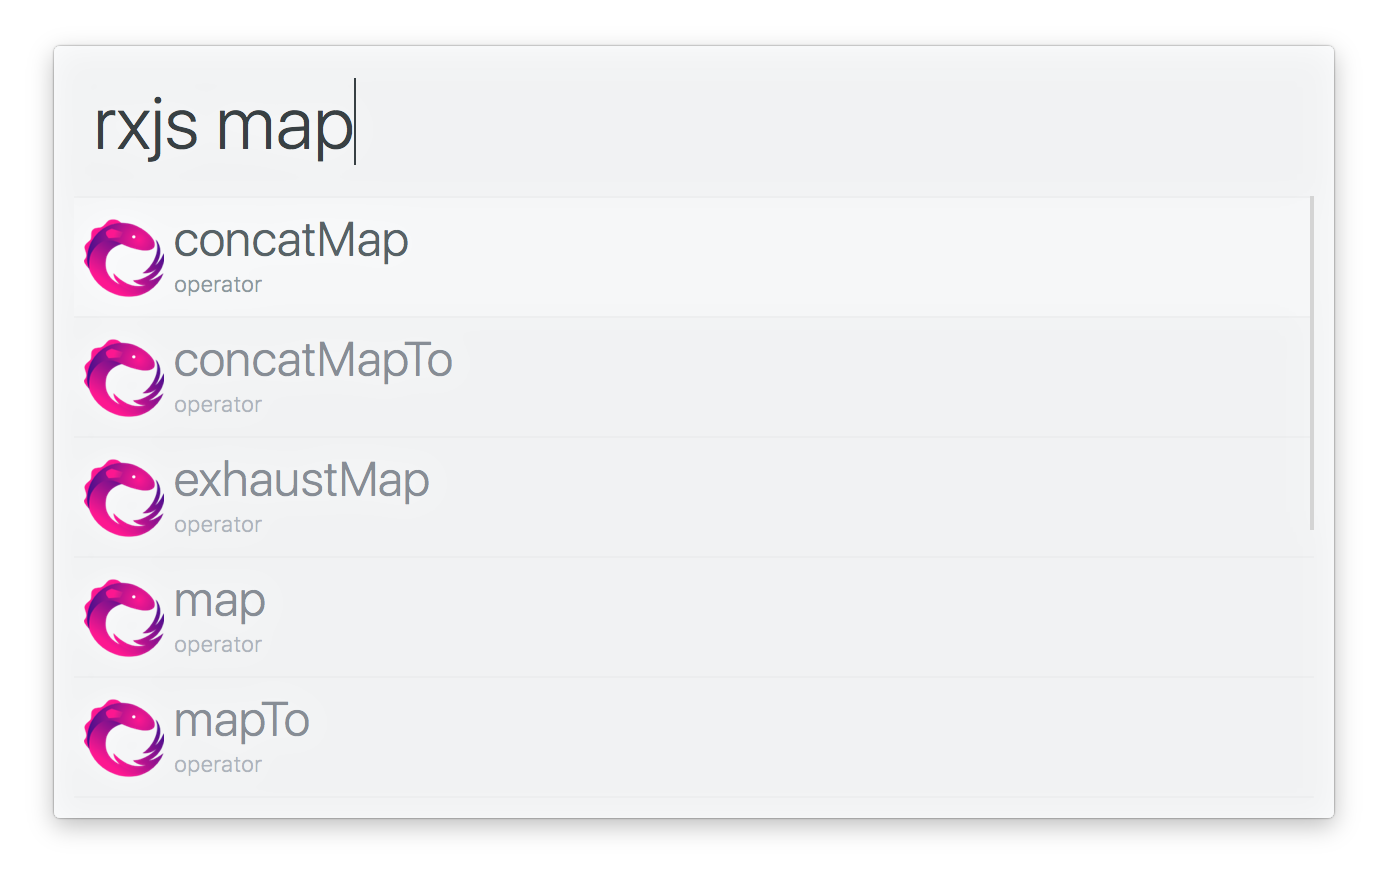
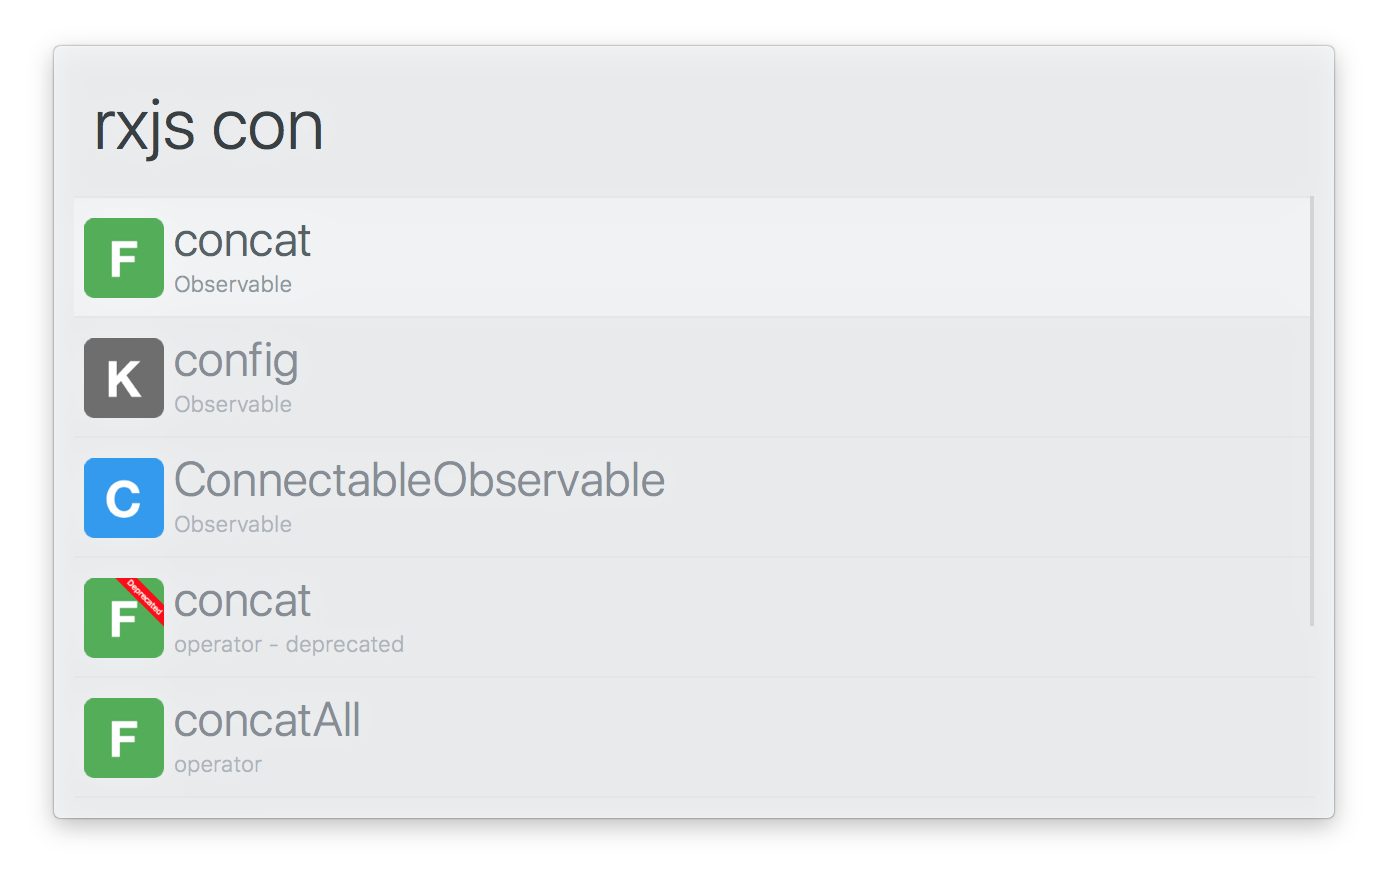
Upgrade to RxJS 6 and link to the new documentation page

diff --git a/test.js b/test.js
@@ -1,22 +1,19 @@
 import test from 'ava';
 import alfyTest from 'alfy-test';
 
-test('class result', async t => {
+test('observable result', async t => {
 	const alfy = alfyTest();
 	const result = await alfy('replaysubject');
 
 	t.deepEqual(result, [
 		{
 			title: 'ReplaySubject',
-			subtitle: 'class',
+			subtitle: 'Observable',
 			autocomplete: 'ReplaySubject',
-			arg: 'http://reactivex.io/rxjs/class/es6/ReplaySubject.js~ReplaySubject.html',
-			quicklookurl: 'http://reactivex.io/rxjs/class/es6/ReplaySubject.js~ReplaySubject.html',
-			mods: {
-				alt: {
-					subtitle: `import { ReplaySubject } from 'rxjs/ReplaySubject';`,
-					arg: `import { ReplaySubject } from 'rxjs/ReplaySubject';`
-				}
+			arg: 'https://rxjs-dev.firebaseapp.com/api/index/ReplaySubject',
+			quicklookurl: 'https://rxjs-dev.firebaseapp.com/api/index/ReplaySubject',
+			icon: {
+				path: './icons/class.png'
 			}
 		}
 	]);
@@ -31,47 +28,48 @@ test('operator result', async t => {
 			title: 'mergeMap',
 			subtitle: 'operator',
 			autocomplete: 'mergeMap',
-			arg: 'http://reactivex.io/rxjs/class/es6/Observable.js~Observable.html#instance-method-mergeMap',
-			quicklookurl: 'http://reactivex.io/rxjs/class/es6/Observable.js~Observable.html#instance-method-mergeMap',
-			mods: {
-				alt: {
-					subtitle: `import 'rxjs/add/operator/mergeMap';`,
-					arg: `import 'rxjs/add/operator/mergeMap';`
-				}
+			arg: 'https://rxjs-dev.firebaseapp.com/api/operators/mergeMap',
+			quicklookurl: 'https://rxjs-dev.firebaseapp.com/api/operators/mergeMap',
+			icon: {
+				path: './icons/function.png'
 			}
 		},
 		{
 			title: 'mergeMapTo',
 			subtitle: 'operator',
 			autocomplete: 'mergeMapTo',
-			arg: 'http://reactivex.io/rxjs/class/es6/Observable.js~Observable.html#instance-method-mergeMapTo',
-			quicklookurl: 'http://reactivex.io/rxjs/class/es6/Observable.js~Observable.html#instance-method-mergeMapTo',
-			mods: {
-				alt: {
-					subtitle: `import 'rxjs/add/operator/mergeMapTo';`,
-					arg: `import 'rxjs/add/operator/mergeMapTo';`
-				}
+			arg: 'https://rxjs-dev.firebaseapp.com/api/operators/mergeMapTo',
+			quicklookurl: 'https://rxjs-dev.firebaseapp.com/api/operators/mergeMapTo',
+			icon: {
+				path: './icons/function.png'
 			}
 		}
 	]);
 });
 
-test('dom result', async t => {
+test('deprecated', async t => {
 	const alfy = alfyTest();
-	const result = await alfy('websocket');
+	const result = await alfy('combineLatest');
 
 	t.deepEqual(result, [
 		{
-			title: 'webSocket',
-			subtitle: 'observable',
-			autocomplete: 'webSocket',
-			arg: 'http://reactivex.io/rxjs/class/es6/Observable.js~Observable.html#static-method-webSocket',
-			quicklookurl: 'http://reactivex.io/rxjs/class/es6/Observable.js~Observable.html#static-method-webSocket',
-			mods: {
-				alt: {
-					subtitle: `import 'rxjs/add/observable/dom/webSocket';`,
-					arg: `import 'rxjs/add/observable/dom/webSocket';`
-				}
+			title: 'combineLatest',
+			subtitle: 'Observable',
+			autocomplete: 'combineLatest',
+			arg: 'https://rxjs-dev.firebaseapp.com/api/index/combineLatest',
+			quicklookurl: 'https://rxjs-dev.firebaseapp.com/api/index/combineLatest',
+			icon: {
+				path: './icons/function.png'
+			}
+		},
+		{
+			title: 'combineLatest',
+			subtitle: 'operator - deprecated',
+			autocomplete: 'combineLatest',
+			arg: 'https://rxjs-dev.firebaseapp.com/api/operators/combineLatest',
+			quicklookurl: 'https://rxjs-dev.firebaseapp.com/api/operators/combineLatest',
+			icon: {
+				path: './icons/function-deprecated.png'
 			}
 		}
 	]);

diff --git a/lib/rxjs.js b/lib/rxjs.js
@@ -1,50 +1,33 @@
 'use strict';
-const path = require('path');
-const globby = require('globby');
+const alfy = require('alfy');
+const constants = require('./constants');
 
-const root = path.join(__dirname, '../node_modules/rxjs');
-const baseUrl = 'http://reactivex.io/rxjs/class/es6';
+const getIcon = item => {
+	if (!constants.TYPES.has(item.docType)) {
+		return;
+	}
 
-const getClasses = () => globby('*.js', {cwd: root})
-	.then(classes => {
-		return classes.map(className => {
-			const name = className.replace(/.js$/, '');
+	const moderator = item.stability === 'deprecated' ? '-deprecated' : '';
 
-			return {
-				title: name,
-				url: `${baseUrl}/${className}~${name}.html`,
-				type: 'class',
-				import: `import { ${name} } from 'rxjs/${name}';`
-			};
-		});
-	});
+	return {
+		path: `./icons/${item.docType}${moderator}.png`
+	};
+};
 
-const getOperators = () => globby('**/*.js', {cwd: path.join(root, 'add')})
-	.then(methods => {
-		const ret = [];
+const mapItem = (item, type) => ({
+	title: item.title,
+	url: `${constants.BASE_URL}/${item.path}`,
+	type: item.stability ? `${type} - ${item.stability}` : type,
+	icon: getIcon(item)
+});
 
-		for (const method of methods) {
-			const match = method.match(/(observable|operator)\/(?:dom\/)?(.*?)\.js/);
-
-			if (match) {
-				const type = match[1];
-				const title = match[2];
-
-				const methodType = type === 'observable' ? 'static' : 'instance';
-
-				ret.push({
-					title,
-					url: `${baseUrl}/Observable.js~Observable.html#${methodType}-method-${title}`,
-					type,
-					import: `import 'rxjs/add/${method.replace(/\.js$/, '')}';`
-				});
-			}
+exports.getDocs = () => alfy
+	.fetch(`${constants.BASE_URL}/generated/docs/api/api-list.json`, {
+		maxAge: constants.ONE_DAY,
+		transform: ([index, operators]) => {
+			return [
+				...index.items.map(item => mapItem(item, 'Observable')),
+				...operators.items.map(item => mapItem(item, 'operator'))
+			];
 		}
-
-		return ret;
 	});
-
-exports.getDocs = () => Promise.all([
-	getClasses(),
-	getOperators()
-]).then(result => Array.prototype.concat.apply([], result));

diff --git a/index.js b/index.js
@@ -13,12 +13,7 @@ rxjs.getDocs()
 					autocomplete: method.title,
 					arg: method.url,
 					quicklookurl: method.url,
-					mods: {
-						alt: {
-							subtitle: method.import,
-							arg: method.import
-						}
-					}
+					icon: method.icon
 				};
 			});
 

diff --git a/lib/constants.js b/lib/constants.js
@@ -1,0 +1,4 @@
+'use strict';
+exports.BASE_URL = 'https://rxjs-dev.firebaseapp.com';
+exports.TYPES = new Set(['class', 'const', 'function', 'interface', 'type-alias']);
+exports.ONE_DAY = 86400000;

diff --git a/readme.md b/readme.md
@@ -19,7 +19,6 @@ $ npm install -g alfred-rxjs
 In Alfred, type `rxjs`, <kbd>Enter</kbd>, and your query.
 
 Select an item and press <kbd>Enter</kbd> to go to its [RxJS](http://reactivex.io/rxjs) documentation.<br>
-Hold <kbd>Alt</kbd> and press <kbd>Enter</kbd> to copy the `import` statement.<br>
 Press <kbd>Shift</kbd> to view the documentation in Quick Look.
 
 
